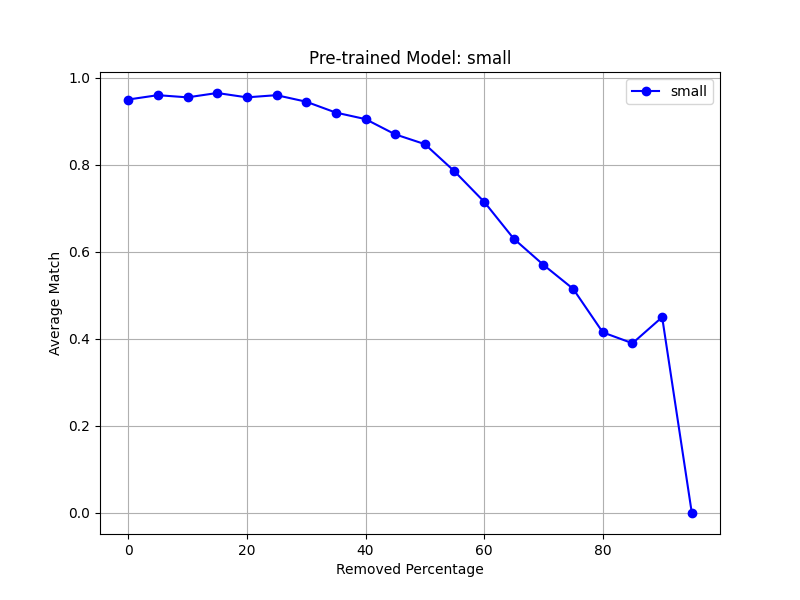
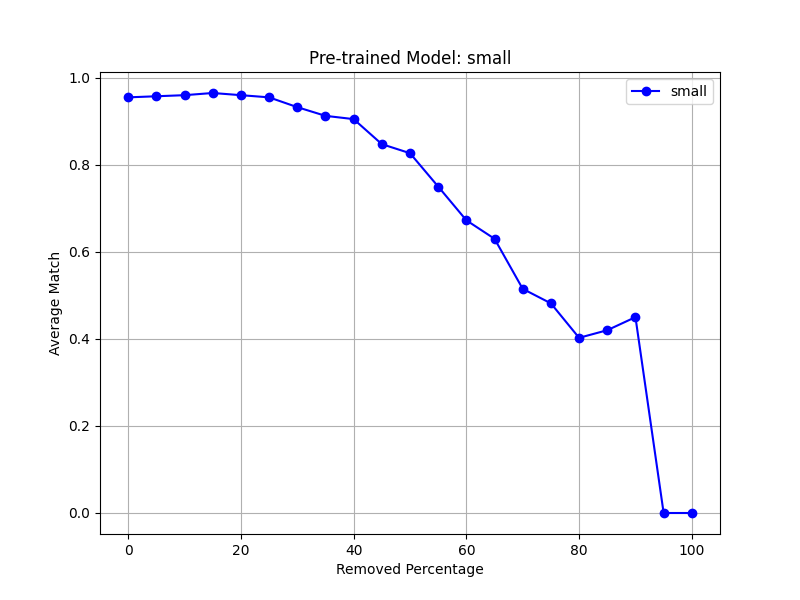
Update accuracy calculation logic and result files for Random and Saliency methods; adjust percentage ranges and add missing data points.

diff --git a/data/dynamic_results.py b/data/dynamic_results.py
@@ -97,9 +97,9 @@ def calculate_accuracy(root_directory: str, save_path: str):
 
     # calculate the average match for each pre-trained model in a delta of each 5 percent
     for pre_trained_model, df in pre_trained_model_matrix.items():
-        for i in range(0, 100, 5):
+        for i in range(0, 105, 5):
             # Filter the DataFrame for the current percentage range
-            filtered_df = df[(df['Removed_Percentage'] >= i) & (df['Removed_Percentage'] < i + 6)]
+            filtered_df = df[(df['Removed_Percentage'] >= i) & (df['Removed_Percentage'] < i + 10)]
 
             # Calculate the average of the 'Match' column
             average_match = filtered_df['Match'].mean()

diff --git a/test2.py b/test2.py
@@ -2,7 +2,7 @@ from data import dynamic_results as dr
 from data import results
 
 dr.getDynamicResults("Saliency", "boolean", "llm_answer_precentage", "midPrecentage")
-dr.add_precentage_to_csv("Random", "boolean", "llm_answer_precentage", "midPrecentage")
+dr.getDynamicResults("Random", "boolean", "llm_answer_precentage", "midPrecentage")
 
 results.calculate_accuracy("data\\llm_answer_precentage\\Random\\boolean","data\\llm_answer_precentage\\Random\\boolean\\results")
 results.calculate_accuracy("data\\llm_answer_precentage\\Saliency\\boolean","data\\llm_answer_precentage\\Saliency\\boolean\\results")
